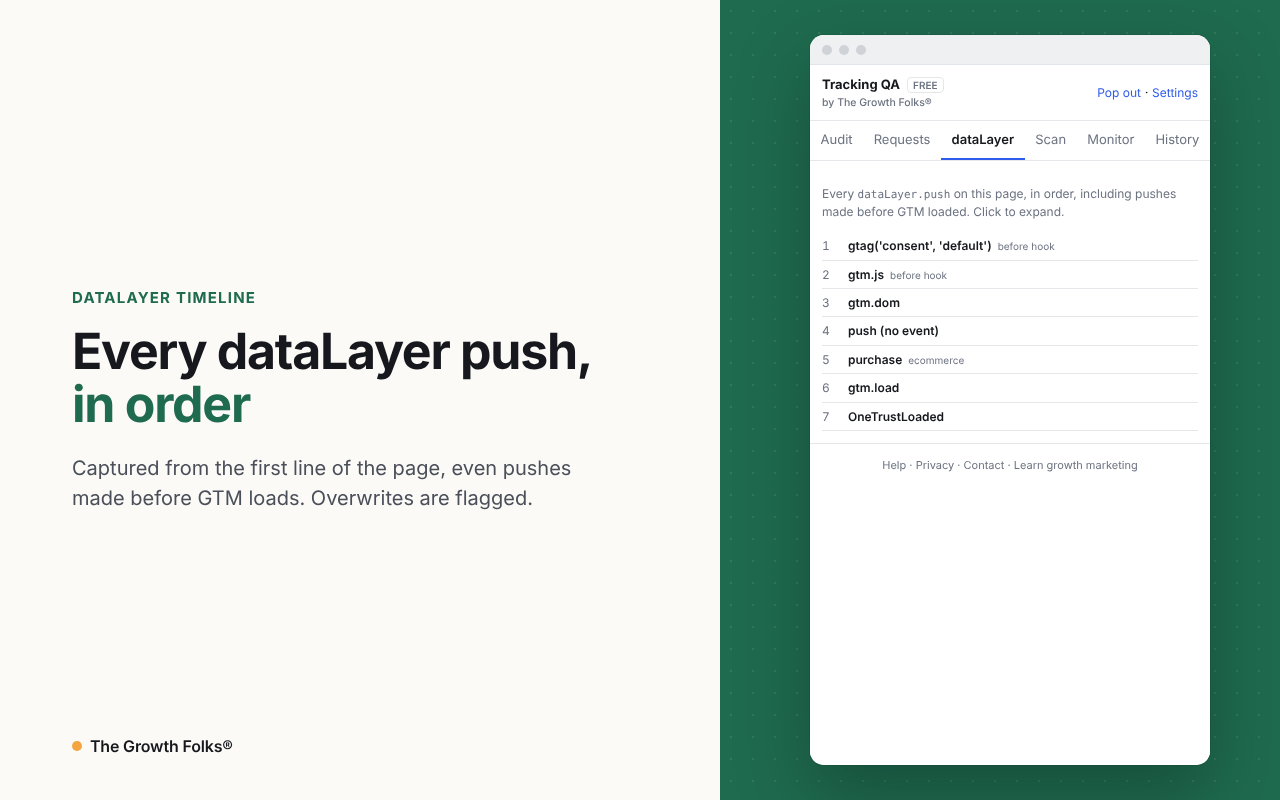
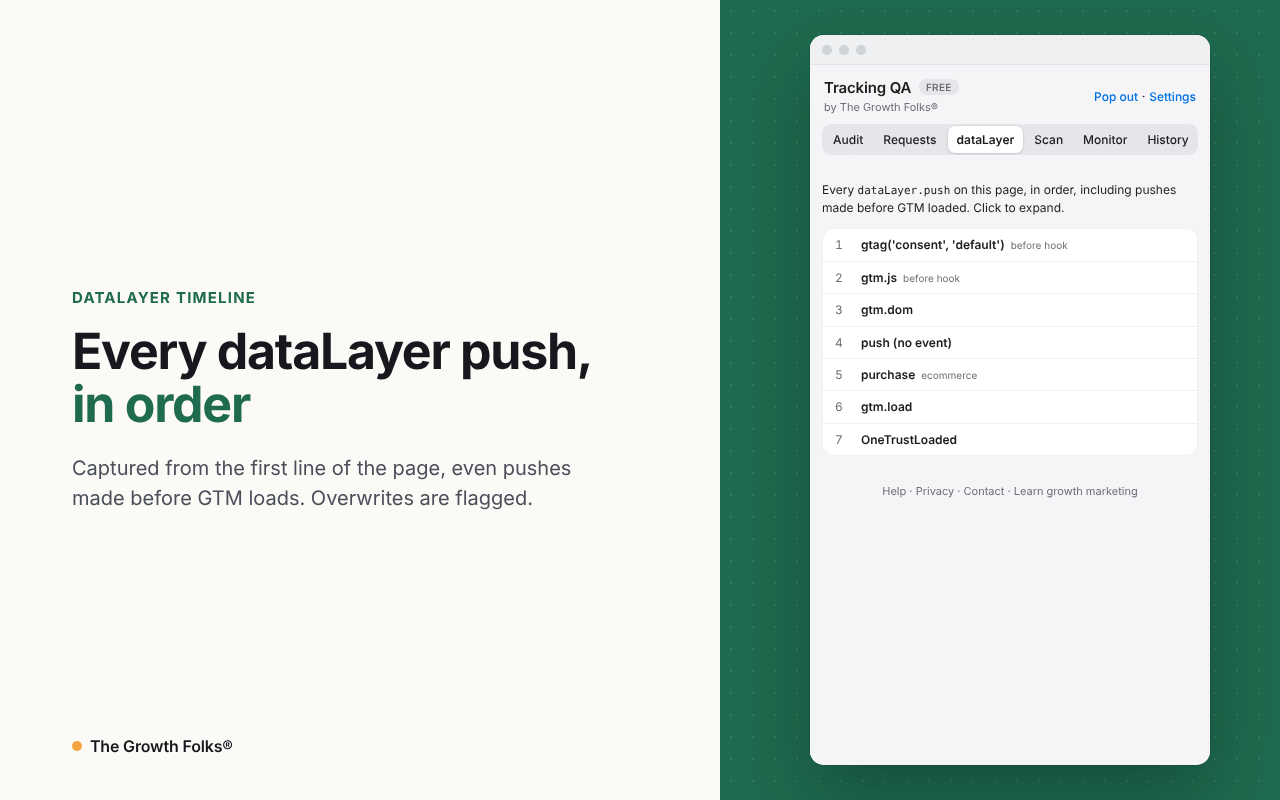
Redesign side panel and settings in an Apple-style layout
- System font stack, off-white background with white cards, soft shadows,
  12px/8px corners, segmented tab control, iOS-style switches for every
  checkbox, full light and dark themes, reduced-motion support.
- Progressive disclosure: CSV/JSON/HAR move into an Export menu, scan
  options into a collapsible section; findings, requests, dataLayer and
  history become grouped lists.
- Header and tabs stay pinned while the panel scrolls.
- All element ids, data attributes and handlers unchanged (verified by
  diff); upgrade, licence and gating browser tests still pass.
- Secondary text uses #6e6e73 so 11-12px text meets contrast on white.
- Client report left unchanged (agency branding, print layout).
- Store screenshots regenerated with the new UI.

Claude-Session: https://claude.ai/code/session_01X6xspAfbzqrYJUVTVdEMEF

Changed region(s): [[0.625, 0.0938, 0.9375, 0.625], [0.8438, 0.0938, 0.9375, 0.125]]

diff --git a/sidepanel/sidepanel.css b/sidepanel/sidepanel.css
@@ -1,94 +1,206 @@
+/* Tracking QA side panel + settings. Apple HIG-inspired: system font, layered cards, segmented tabs, switches.
+   Every class used by sidepanel.js / options.js is kept; only the look changes. */
 :root {
-  --bg: #ffffff; --fg: #16181d; --muted: #6b7280; --line: #e5e7eb; --card: #f8f9fb;
-  --accent: #2f5bea; --critical: #d92d20; --warning: #c47a00; --info: #4b5563; --pass: #138a4b;
+  --bg: #f5f5f7; --surface: #ffffff; --card: #ffffff; --fill: rgba(118, 118, 128, .12); --fill-strong: rgba(118, 118, 128, .2);
+  --fg: #1d1d1f; --muted: #6e6e73; --line: rgba(0, 0, 0, .08); --hair: rgba(0, 0, 0, .06);
+  --accent: #0071e3; --accent-fg: #ffffff;
+  --critical: #d70015; --warning: #b25000; --info: #6e6e73; --pass: #248a3d;
+  --shadow: 0 1px 2px rgba(0, 0, 0, .04), 0 4px 12px rgba(0, 0, 0, .04);
+  --seg-on: #ffffff; --seg-shadow: 0 1px 3px rgba(0, 0, 0, .12), 0 0 0 .5px rgba(0, 0, 0, .04);
+  --r-card: 12px; --r-ctl: 8px;
+  --ease: cubic-bezier(.25, 1, .5, 1);
+  --font: -apple-system, BlinkMacSystemFont, "SF Pro Text", "Inter", "Segoe UI", system-ui, sans-serif;
+  --mono: ui-monospace, "SF Mono", Menlo, Consolas, monospace;
   color-scheme: light dark;
 }
 @media (prefers-color-scheme: dark) {
-  :root { --bg: #15171c; --fg: #e8eaee; --muted: #9aa1ad; --line: #2a2e36; --card: #1d2027; --accent: #6d8cff; --critical: #ff6b5e; --warning: #f0b43c; --info: #aab1bc; --pass: #45c37f; }
+  :root {
+    --bg: #000000; --surface: #1c1c1e; --card: #1c1c1e; --fill: rgba(118, 118, 128, .24); --fill-strong: rgba(118, 118, 128, .36);
+    --fg: #f5f5f7; --muted: #98989d; --line: rgba(255, 255, 255, .1); --hair: rgba(255, 255, 255, .08);
+    --accent: #0a84ff; --critical: #ff453a; --warning: #ff9f0a; --info: #98989d; --pass: #30d158;
+    --shadow: 0 1px 2px rgba(0, 0, 0, .4); --seg-on: #636366; --seg-shadow: 0 1px 3px rgba(0, 0, 0, .3);
+  }
 }
 * { box-sizing: border-box; }
-body { margin: 0; font: 13px/1.45 system-ui, -apple-system, "Segoe UI", sans-serif; background: var(--bg); color: var(--fg); }
-.top { display: flex; justify-content: space-between; align-items: center; padding: 10px 12px; border-bottom: 1px solid var(--line); }
-.brand { font-weight: 650; }
-.badge { font-size: 10px; font-weight: 600; text-transform: uppercase; border: 1px solid var(--line); border-radius: 4px; padding: 1px 5px; margin-left: 4px; color: var(--muted); }
-.badge.pro { color: var(--accent); border-color: var(--accent); }
-.link { color: var(--accent); text-decoration: none; font-size: 12px; }
-.tabs { display: flex; border-bottom: 1px solid var(--line); }
-.tabs { overflow-x: auto; }
-.tabs button { flex: 1 0 auto; background: none; border: 0; padding: 9px 7px; font-size: 12px; white-space: nowrap; color: var(--muted); cursor: pointer; border-bottom: 2px solid transparent; font: inherit; }
-.tabs button[aria-selected="true"] { color: var(--fg); border-bottom-color: var(--accent); font-weight: 600; }
-.tab-panel { padding: 12px; }
-.page-url { font-size: 12px; color: var(--muted); word-break: break-all; margin-bottom: 8px; }
-.row { display: flex; gap: 8px; margin: 8px 0; flex-wrap: wrap; }
-button.primary, button.secondary { font: inherit; border-radius: 6px; padding: 7px 12px; cursor: pointer; }
-button.primary { background: var(--accent); color: #fff; border: 1px solid var(--accent); font-weight: 600; }
-button.secondary { background: transparent; color: var(--fg); border: 1px solid var(--line); }
-button:disabled { opacity: .55; cursor: default; }
-h3 { font-size: 12px; text-transform: uppercase; letter-spacing: .04em; color: var(--muted); margin: 18px 0 6px; }
-.muted { color: var(--muted); } .small { font-size: 12px; }
-.score-row { display: flex; align-items: center; gap: 12px; margin: 10px 0; }
-.score { font-size: 32px; font-weight: 700; min-width: 64px; }
-.counts span { display: inline-block; margin-right: 10px; font-size: 12px; }
-.c-critical { color: var(--critical); } .c-warning { color: var(--warning); } .c-info { color: var(--info); } .c-pass { color: var(--pass); }
-.card { background: var(--card); border: 1px solid var(--line); border-radius: 8px; padding: 8px 10px; margin: 8px 0; }
-.card > div { display: flex; justify-content: space-between; gap: 8px; padding: 2px 0; }
-.card .ids { color: var(--muted); font-family: ui-monospace, monospace; font-size: 11px; text-align: right; word-break: break-all; }
-.findings { list-style: none; padding: 0; margin: 8px 0; }
-.findings li { border-left: 3px solid var(--line); padding: 6px 8px; margin: 6px 0; background: var(--card); border-radius: 0 6px 6px 0; }
-.findings li.critical { border-left-color: var(--critical); } .findings li.warning { border-left-color: var(--warning); }
-.findings li.info { border-left-color: var(--info); } .findings li.pass { border-left-color: var(--pass); }
-.findings .t { font-weight: 600; } .findings .d { margin-top: 2px; } .findings .f { margin-top: 4px; color: var(--muted); }
-.hits { list-style: none; padding: 0; margin: 0; font-size: 12px; }
-.hits li { display: grid; grid-template-columns: 74px 1fr auto; gap: 6px; padding: 4px 0; border-bottom: 1px solid var(--line); }
-.hits .p { font-weight: 600; } .hits .id { font-family: ui-monospace, monospace; font-size: 11px; color: var(--muted); word-break: break-all; }
-.hits .k { color: var(--muted); font-size: 11px; }
-textarea { width: 100%; font: 12px ui-monospace, monospace; padding: 8px; border: 1px solid var(--line); border-radius: 6px; background: var(--card); color: var(--fg); }
-.progress { margin-top: 10px; } .progress .bar { height: 4px; background: var(--accent); width: 0; border-radius: 2px; transition: width .3s; margin-bottom: 4px; }
-.history { list-style: none; padding: 0; margin: 0; }
-.history li { display: flex; justify-content: space-between; align-items: center; gap: 8px; padding: 8px 0; border-bottom: 1px solid var(--line); }
-.history .meta { font-size: 11px; color: var(--muted); }
-.history button { font: inherit; font-size: 12px; background: none; border: 0; color: var(--accent); cursor: pointer; padding: 2px 4px; }
-.history button.del { color: var(--muted); }
+body { margin: 0; font: 13px/1.45 var(--font); background: var(--bg); color: var(--fg); -webkit-font-smoothing: antialiased; }
+a, button, select, input, textarea, .chip, .btn-file, summary { transition: all .2s var(--ease); }
+@media (prefers-reduced-motion: reduce) { *, *::before { transition: none !important; } }
+:focus-visible { outline: 2px solid var(--accent); outline-offset: 2px; }
 
-.row.tight { margin: 6px 0; align-items: center; }
+/* Header + segmented tabs stay pinned while the panel scrolls */
+.chrome { position: sticky; top: 0; z-index: 2; background: color-mix(in srgb, var(--bg) 88%, transparent);
+  -webkit-backdrop-filter: blur(20px) saturate(180%); backdrop-filter: blur(20px) saturate(180%); padding-bottom: 6px; }
+.top { display: flex; justify-content: space-between; align-items: center; gap: 8px; padding: 12px 14px 8px; }
+.brand { font-weight: 600; font-size: 15px; letter-spacing: -.01em; }
+.top .link { font-weight: 500; }
+.badge { font-size: 10px; font-weight: 600; text-transform: uppercase; letter-spacing: .03em; border-radius: 999px; padding: 2px 7px;
+  margin-left: 4px; color: var(--muted); background: var(--fill); vertical-align: 2px; }
+.badge.pro { color: var(--accent-fg); background: var(--accent); }
+.link { color: var(--accent); text-decoration: none; font-size: 12px; }
+.link:hover { opacity: .75; }
+
+.tabs { display: flex; gap: 2px; margin: 0 12px; padding: 2px; border-radius: 9px;
+  background: var(--fill); overflow-x: auto; scrollbar-width: none; }
+.tabs::-webkit-scrollbar { display: none; }
+.tabs button { flex: 1 0 auto; font: inherit; font-size: 12px; font-weight: 500; color: var(--fg); background: transparent; border: 0;
+  border-radius: 7px; padding: 5px 9px; white-space: nowrap; cursor: pointer; }
+.tabs button:hover:not([aria-selected="true"]) { background: var(--fill); }
+.tabs button[aria-selected="true"] { background: var(--seg-on); box-shadow: var(--seg-shadow); font-weight: 600; }
+
+.tab-panel { padding: 8px 12px 12px; animation: panel-in .2s var(--ease); }
+@keyframes panel-in { from { opacity: 0; transform: translateY(2px); } to { opacity: 1; transform: none; } }
+.page-url { font-size: 12px; color: var(--muted); word-break: break-all; margin: 2px 2px 8px; }
+
+/* Cards */
+.card, .panel-card { background: var(--card); border: 1px solid var(--hair); border-radius: var(--r-card); box-shadow: var(--shadow);
+  padding: 12px 14px; margin: 10px 0; }
+.card > div { display: flex; justify-content: space-between; gap: 8px; padding: 3px 0; }
+.card .ids { color: var(--muted); font-family: var(--mono); font-size: 11px; text-align: right; word-break: break-all; }
+h3 { font-size: 11px; font-weight: 600; text-transform: uppercase; letter-spacing: .05em; color: var(--muted); margin: 18px 2px 6px; }
+.card h3:first-child { margin-top: 0; }
+.muted { color: var(--muted); } .small { font-size: 12px; }
+
+/* Buttons */
+.row { display: flex; gap: 8px; margin: 10px 0; flex-wrap: wrap; align-items: center; }
+.row.tight { margin: 6px 0; }
 .spacer { flex: 1; }
-button.sm { padding: 4px 9px; font-size: 12px; }
-.visually-hidden { position: absolute; width: 1px; height: 1px; overflow: hidden; clip: rect(0 0 0 0); white-space: nowrap; }
-.btn-file:focus-within { outline: 2px solid var(--accent); }
-.btn-file { font: inherit; font-size: 12px; border: 1px solid var(--line); border-radius: 6px; padding: 4px 9px; cursor: pointer; }
-.st { font-size: 10px; font-weight: 600; border-radius: 4px; padding: 0 4px; }
-.st.ok { color: var(--pass); } .st.bad { color: #fff; background: var(--critical); } .st.blk { color: var(--warning); border: 1px solid var(--warning); }
-.src { display: inline-block; font-size: 10px; color: var(--accent); border: 1px solid var(--accent); border-radius: 4px; padding: 0 4px; margin-left: 4px; }
-.opts { display: flex; flex-direction: column; gap: 4px; margin: 6px 0; font-size: 12px; }
-input[type=search], select { font: inherit; padding: 6px 8px; border: 1px solid var(--line); border-radius: 6px; background: var(--card); color: var(--fg); }
-input[type=search] { width: 100%; }
-.chips { display: flex; flex-wrap: wrap; gap: 4px; margin: 4px 0 6px; }
-.chip { font: inherit; font-size: 11px; border: 1px solid var(--line); background: transparent; color: var(--fg); border-radius: 999px; padding: 2px 9px; cursor: pointer; }
-.chip[aria-pressed="true"] { background: var(--accent); border-color: var(--accent); color: #fff; }
-.hits li { cursor: pointer; }
-.hits li.nav { display: block; cursor: default; font-size: 11px; color: var(--accent); border-bottom: 1px dashed var(--accent); padding: 6px 0 3px; word-break: break-all; }
-.hits li.open { background: var(--card); }
-.params { grid-column: 1 / -1; width: 100%; border-collapse: collapse; font-size: 11px; margin: 4px 0; }
-.params td { padding: 2px 4px; border-top: 1px solid var(--line); vertical-align: top; word-break: break-all; }
+button.primary, button.secondary { font: inherit; font-weight: 500; border-radius: var(--r-ctl); padding: 7px 14px; cursor: pointer; border: 0; }
+button.primary { background: var(--accent); color: var(--accent-fg); }
+button.primary:hover:not(:disabled) { filter: brightness(1.08); }
+button.secondary, .btn-file { background: var(--fill); color: var(--fg); }
+button.secondary:hover:not(:disabled), .btn-file:hover { background: var(--fill-strong); }
+button:active:not(:disabled), .btn-file:active, .chip:active { transform: scale(.98); }
+button:disabled { opacity: .45; cursor: default; }
+button.sm { padding: 4px 10px; font-size: 12px; }
+#run-audit { flex: 1; padding: 9px 14px; }
+
+/* Form controls */
+input[type=search], input[type=text], select, textarea { font: inherit; color: var(--fg); background: var(--surface);
+  border: 1px solid var(--line); border-radius: var(--r-ctl); padding: 6px 9px; }
+input[type=search]:focus, input[type=text]:focus, select:focus, textarea:focus { outline: none; border-color: var(--accent);
+  box-shadow: 0 0 0 3px color-mix(in srgb, var(--accent) 25%, transparent); }
+input[type=search] { width: 100%; background: var(--fill); border-color: transparent; }
+textarea { width: 100%; font: 12px/1.5 var(--mono); padding: 8px 10px; resize: vertical; }
+select { padding-right: 6px; }
+
+/* iOS-style switch: any checkbox in the panel and settings (same element, so ids and change events are untouched) */
+input[type=checkbox] { -webkit-appearance: none; appearance: none; position: relative; flex: none; width: 32px; height: 19px; margin: 0 6px 0 0;
+  vertical-align: -5px; border-radius: 999px; background: var(--fill-strong); cursor: pointer; transition: background .2s var(--ease); }
+input[type=checkbox]::before { content: ""; position: absolute; top: 2px; left: 2px; width: 15px; height: 15px; border-radius: 50%;
+  background: #fff; box-shadow: 0 1px 2px rgba(0, 0, 0, .25); transition: transform .2s var(--ease); }
+input[type=checkbox]:checked { background: #34c759; }
+input[type=checkbox]:checked::before { transform: translateX(13px); }
+
+/* Options under the main action */
+.opts { display: flex; flex-direction: column; gap: 8px; margin: 8px 0; font-size: 12px; }
+.opts label { display: flex; align-items: center; gap: 6px; flex-wrap: wrap; }
+
+/* Progressive disclosure */
+details.disclosure { margin: 8px 0; border-radius: var(--r-card); background: var(--card); border: 1px solid var(--hair); }
+details.disclosure > summary { list-style: none; cursor: pointer; padding: 9px 12px; font-size: 12px; font-weight: 500; color: var(--fg);
+  display: flex; align-items: center; gap: 6px; border-radius: var(--r-card); }
+details.disclosure > summary::-webkit-details-marker { display: none; }
+details.disclosure > summary::before { content: ""; width: 6px; height: 6px; border-right: 1.5px solid var(--muted);
+  border-bottom: 1.5px solid var(--muted); transform: rotate(-45deg); transition: transform .2s var(--ease); margin-right: 2px; }
+details.disclosure[open] > summary::before { transform: rotate(45deg); }
+details.disclosure > summary:hover { background: var(--fill); }
+details.disclosure > .opts { margin: 0; padding: 2px 12px 12px; }
+details.menu { position: relative; }
+details.menu > summary { list-style: none; cursor: pointer; font-size: 12px; font-weight: 500; border-radius: var(--r-ctl); padding: 4px 10px;
+  background: var(--fill); }
+details.menu > summary::-webkit-details-marker { display: none; }
+details.menu > summary:hover { background: var(--fill-strong); }
+details.menu[open] > summary { background: var(--fill-strong); }
+details.menu .menu-items { position: absolute; right: 0; top: calc(100% + 4px); z-index: 3; min-width: 130px; display: flex; flex-direction: column;
+  padding: 4px; border-radius: 10px; background: var(--surface); border: 1px solid var(--line); box-shadow: 0 8px 24px rgba(0, 0, 0, .14); }
+details.menu .menu-items button { text-align: left; background: transparent; border-radius: 6px; padding: 6px 10px; }
+details.menu .menu-items button:hover { background: var(--accent); color: var(--accent-fg); }
+
+/* Score */
+.score-row { display: flex; align-items: center; gap: 14px; margin: 10px 0; padding: 14px 16px; background: var(--card);
+  border: 1px solid var(--hair); border-radius: var(--r-card); box-shadow: var(--shadow); }
+.score { font-size: 34px; font-weight: 600; letter-spacing: -.02em; min-width: 72px; font-variant-numeric: tabular-nums; }
+.score .of { font-size: 13px; color: var(--muted); font-weight: 500; }
+.counts { display: flex; flex-wrap: wrap; gap: 4px 12px; }
+.counts span { font-size: 12px; font-weight: 500; }
+.c-critical { color: var(--critical); } .c-warning { color: var(--warning); } .c-info { color: var(--info); } .c-pass { color: var(--pass); }
+
+/* Findings: one grouped list, severity as a coloured dot */
+.findings { list-style: none; padding: 0; margin: 10px 0; background: var(--card); border: 1px solid var(--hair); border-radius: var(--r-card);
+  box-shadow: var(--shadow); overflow: hidden; }
+.findings:empty { display: none; }
+.findings li { position: relative; padding: 10px 14px 10px 28px; border-top: 1px solid var(--hair); }
+.findings li:first-child { border-top: 0; }
+.findings li::before { content: ""; position: absolute; left: 12px; top: 15px; width: 8px; height: 8px; border-radius: 50%; background: var(--info); }
+.findings li.critical::before { background: var(--critical); } .findings li.warning::before { background: var(--warning); }
+.findings li.pass::before { background: var(--pass); }
+.findings .t { font-weight: 600; } .findings .d { margin-top: 2px; } .findings .f { margin-top: 4px; color: var(--muted); }
+
+/* Requests */
+.hits { list-style: none; padding: 0; margin: 6px 0 0; font-size: 12px; background: var(--card); border: 1px solid var(--hair);
+  border-radius: var(--r-card); overflow: hidden; }
+.hits:empty { display: none; }
+.hits li { display: grid; grid-template-columns: 78px 1fr auto; gap: 6px; padding: 7px 12px; border-top: 1px solid var(--hair); cursor: pointer; }
+.hits li:first-child { border-top: 0; }
+.hits li:hover { background: var(--fill); }
+.hits li.open { background: var(--fill); }
+.hits .p { font-weight: 600; } .hits .id { font-family: var(--mono); font-size: 11px; color: var(--muted); word-break: break-all; }
+.hits .k { color: var(--muted); font-size: 11px; }
+.hits li.nav { display: block; cursor: default; font-size: 11px; font-weight: 500; color: var(--accent); background: var(--fill); padding: 6px 12px;
+  word-break: break-all; }
+.params { grid-column: 1 / -1; width: 100%; border-collapse: collapse; font-size: 11px; margin: 6px 0 2px; }
+.params td { padding: 3px 4px; border-top: 1px solid var(--hair); vertical-align: top; word-break: break-all; }
 .params td:first-child { color: var(--muted); width: 42%; }
-.params code { font-family: ui-monospace, monospace; font-size: 10px; color: var(--muted); display: block; }
-.dl { list-style: none; padding: 0; margin: 0; font-size: 12px; }
-.dl li { border-bottom: 1px solid var(--line); padding: 5px 0; cursor: pointer; }
+.params code { font-family: var(--mono); font-size: 10px; color: var(--muted); display: block; }
+.chips { display: flex; flex-wrap: wrap; gap: 6px; margin: 8px 0; }
+.chip { font: inherit; font-size: 11px; font-weight: 500; border: 0; background: var(--fill); color: var(--fg); border-radius: 999px;
+  padding: 3px 10px; cursor: pointer; }
+.chip:hover { background: var(--fill-strong); }
+.chip[aria-pressed="true"] { background: var(--accent); color: var(--accent-fg); }
+.st { font-size: 10px; font-weight: 600; border-radius: 999px; padding: 1px 6px; }
+.st.ok { color: var(--pass); } .st.bad { color: #fff; background: var(--critical); }
+.st.blk { color: var(--warning); background: color-mix(in srgb, var(--warning) 14%, transparent); }
+.src { display: inline-block; font-size: 10px; font-weight: 600; color: var(--accent); background: color-mix(in srgb, var(--accent) 12%, transparent);
+  border-radius: 999px; padding: 0 6px; margin-left: 4px; }
+
+/* dataLayer */
+.dl { list-style: none; padding: 0; margin: 6px 0 0; font-size: 12px; background: var(--card); border: 1px solid var(--hair);
+  border-radius: var(--r-card); overflow: hidden; }
+.dl:empty { display: none; }
+.dl li { border-top: 1px solid var(--hair); padding: 7px 12px; cursor: pointer; }
+.dl li:first-child { border-top: 0; }
+.dl li:hover { background: var(--fill); }
 .dl .n { display: inline-block; min-width: 26px; color: var(--muted); font-variant-numeric: tabular-nums; }
 .dl .ev { font-weight: 600; }
 .dl .tag { font-size: 10px; color: var(--muted); margin-left: 6px; }
-.dl pre { margin: 6px 0 0; font: 11px/1.4 ui-monospace, monospace; white-space: pre-wrap; word-break: break-all; background: var(--card); padding: 6px; border-radius: 4px; cursor: text; }
-.dl li.nav-sep { font-size: 11px; color: var(--accent); border-bottom: 1px dashed var(--accent); cursor: default; word-break: break-all; }
-.score .of { font-size: 13px; color: var(--muted); font-weight: 500; }
+.dl pre { margin: 6px 0 0; font: 11px/1.45 var(--mono); white-space: pre-wrap; word-break: break-all; background: var(--fill); padding: 8px;
+  border-radius: var(--r-ctl); cursor: text; }
+.dl li.nav-sep { font-size: 11px; font-weight: 500; color: var(--accent); background: var(--fill); cursor: default; word-break: break-all; }
 .dl li.bad { color: var(--critical); font-weight: 600; cursor: default; }
+
+/* Scan / monitor / history */
+.progress { margin-top: 10px; } .progress .bar { height: 4px; background: var(--accent); width: 0; border-radius: 2px; transition: width .3s var(--ease); margin-bottom: 6px; }
+.history { list-style: none; padding: 0; margin: 8px 0; background: var(--card); border: 1px solid var(--hair); border-radius: var(--r-card); overflow: hidden; }
+.history:empty { display: none; }
+.history li { display: flex; justify-content: space-between; align-items: center; gap: 8px; padding: 10px 12px; border-top: 1px solid var(--hair); }
+.history li:first-child { border-top: 0; }
+.history .meta { font-size: 11px; color: var(--muted); }
+.history button { font: inherit; font-size: 12px; font-weight: 500; background: none; border: 0; color: var(--accent); cursor: pointer; padding: 3px 6px; border-radius: 6px; }
+.history button:hover { background: var(--fill); }
+.history button.del { color: var(--muted); }
 .ct-table { width: 100%; border-collapse: collapse; font-size: 12px; }
-.ct-table td, .ct-table th { text-align: left; padding: 2px 4px; }
+.ct-table td, .ct-table th { text-align: left; padding: 3px 4px; }
 .ct-table th { color: var(--muted); font-weight: 500; font-size: 11px; }
-code { font-family: ui-monospace, monospace; font-size: 11px; }
+code { font-family: var(--mono); font-size: 11px; }
+label.small, p.small { color: var(--fg); }
+.visually-hidden { position: absolute; width: 1px; height: 1px; overflow: hidden; clip: rect(0 0 0 0); white-space: nowrap; }
+.btn-file { font: inherit; font-size: 12px; font-weight: 500; border-radius: var(--r-ctl); padding: 4px 10px; cursor: pointer; }
+.btn-file:focus-within { outline: 2px solid var(--accent); outline-offset: 2px; }
+.upgrade { font-weight: 500; color: var(--accent); }
 
 /* The Growth Folks® mark + footer links */
-.tgf-mark { display: block; font-size: 10.5px; font-weight: 500; color: var(--muted); text-decoration: none; margin-top: 1px; }
+.tgf-mark { display: block; font-size: 11px; font-weight: 400; color: var(--muted); text-decoration: none; margin-top: 1px; letter-spacing: 0; }
 .tgf-mark:hover { color: var(--accent); }
-.tgf-foot { padding: 14px 12px 16px; border-top: 1px solid var(--line); font-size: 11px; color: var(--muted); text-align: center; }
+.tgf-foot { padding: 16px 12px 18px; font-size: 11px; color: var(--muted); text-align: center; }
 .tgf-foot a { color: var(--muted); text-decoration: none; }
-.tgf-foot a:hover { color: var(--accent); text-decoration: underline; }
+.tgf-foot a:hover { color: var(--accent); }

diff --git a/sidepanel/sidepanel.html b/sidepanel/sidepanel.html
@@ -7,6 +7,7 @@
   <link rel="stylesheet" href="sidepanel.css">
 </head>
 <body>
+  <div class="chrome">
   <header class="top">
     <div class="brand">Tracking QA <span id="plan-badge" class="badge"></span><a class="tgf-mark" data-tgf="landing" data-tgf-content="panel-header" title="Tracking QA &amp; Client Audit by The Growth Folks®">by The Growth Folks®</a></div>
     <span><a href="#" id="pop-out" class="link" title="Open in a separate window pinned to this tab">Pop out</a> · <a href="#" id="open-options" class="link">Settings</a></span>
@@ -20,6 +21,7 @@
     <button role="tab" data-tab="monitor" aria-selected="false">Monitor</button>
     <button role="tab" data-tab="history" aria-selected="false">History</button>
   </nav>
+  </div>
 
   <!-- Audit -->
   <section id="tab-live" class="tab-panel">
@@ -59,9 +61,14 @@
     <div class="row tight">
       <label class="small"><input type="checkbox" id="preserve-log"> Preserve log across pages</label>
       <span class="spacer"></span>
-      <button class="secondary sm" id="export-csv">CSV</button>
-      <button class="secondary sm" id="export-json">JSON</button>
-      <button class="secondary sm" id="export-har" title="HTTP Archive for developers (Chrome DevTools, Charles, etc.)">HAR</button>
+      <details class="menu">
+        <summary>Export</summary>
+        <div class="menu-items">
+          <button class="secondary sm" id="export-csv">CSV</button>
+          <button class="secondary sm" id="export-json">JSON</button>
+          <button class="secondary sm" id="export-har" title="HTTP Archive for developers (Chrome DevTools, Charles, etc.)">HAR</button>
+        </div>
+      </details>
       <button class="secondary sm" id="clear-log">Clear</button>
     </div>
     <p class="muted small" id="hit-count"></p>
@@ -79,10 +86,13 @@
     <p class="small">Opens each URL in a background tab, waits for tags to settle, then audits it. Pages are checked as a <strong>first-time visitor who hasn't consented yet</strong>.</p>
     <label for="scan-urls" class="small">URLs (one per line)</label>
     <textarea id="scan-urls" rows="7" placeholder="https://example.com/&#10;https://example.com/checkout"></textarea>
-    <div class="opts">
-      <label>Consent test on every page: <select id="scan-consent"><option value="">Off</option><option value="accept">Accept all</option><option value="reject">Reject all</option><option value="gpc">GPC signal (US opt-out)</option></select></label>
-      <label title="Clears cookies and storage for the scanned sites first. You will be logged out of them."><input type="checkbox" id="scan-fresh"> Fresh visitor (clears that site's cookies)</label>
-    </div>
+    <details class="disclosure">
+      <summary>Scan options</summary>
+      <div class="opts">
+        <label>Consent test on every page: <select id="scan-consent"><option value="">Off</option><option value="accept">Accept all</option><option value="reject">Reject all</option><option value="gpc">GPC signal (US opt-out)</option></select></label>
+        <label title="Clears cookies and storage for the scanned sites first. You will be logged out of them."><input type="checkbox" id="scan-fresh"> Fresh visitor (clears that site's cookies)</label>
+      </div>
+    </details>
     <div class="row">
       <button id="use-links" class="secondary">Use links from this page</button>
       <button id="start-scan" class="primary">Start scan</button>

diff --git a/options/options.html b/options/options.html
@@ -6,15 +6,23 @@
   <title>Tracking QA Settings</title>
   <link rel="stylesheet" href="../sidepanel/sidepanel.css">
   <style>
-    body { max-width: 560px; margin: 0 auto; padding: 24px 16px; }
-    label { display: block; font-weight: 600; margin: 14px 0 4px; }
-    input[type=text] { width: 100%; font: inherit; padding: 7px 8px; border: 1px solid var(--line); border-radius: 6px; background: var(--card); color: var(--fg); }
-    .hint { font-size: 12px; color: var(--muted); margin-top: 2px; }
-    #logo-preview { max-height: 48px; display: block; margin-top: 8px; }
-    textarea { width: 100%; font: 12px ui-monospace, monospace; padding: 8px; border: 1px solid var(--line); border-radius: 6px; background: var(--card); color: var(--fg); margin-top: 6px; }
-    fieldset { border: 1px solid var(--line); border-radius: 8px; padding: 4px 14px 14px; margin: 18px 0; }
-    legend { font-weight: 650; padding: 0 6px; }
-    .locked { opacity: .55; pointer-events: none; }
+    body { max-width: 600px; margin: 0 auto; padding: 28px 16px 40px; }
+    h1 { font-size: 22px; font-weight: 600; letter-spacing: -.02em; margin: 0 2px 2px; }
+    body > .tgf-mark { margin: 0 2px 18px; }
+    label { display: block; font-weight: 500; margin: 14px 0 6px; }
+    input[type=text] { width: 100%; }
+    .hint { font-size: 12px; color: var(--muted); margin-top: 4px; }
+    #logo-preview { max-height: 48px; display: block; margin-top: 8px; border-radius: 6px; }
+    textarea { margin-top: 6px; }
+    fieldset { background: var(--card); border: 1px solid var(--hair); border-radius: var(--r-card); box-shadow: var(--shadow);
+      padding: 6px 16px 16px; margin: 0 0 14px; min-width: 0; }
+    legend { float: left; width: 100%; font-size: 13px; font-weight: 600; padding: 10px 0 2px; margin: 0; }
+    legend + * { clear: both; }
+    fieldset > p:first-of-type { clear: both; }
+    label:has(> input[type=checkbox]) { display: flex; align-items: center; gap: 2px; font-weight: 400; }
+    input[type=color] { width: 44px; height: 30px; padding: 2px; border: 1px solid var(--line); border-radius: var(--r-ctl); background: var(--surface); cursor: pointer; }
+    input[type=file] { font: inherit; font-size: 12px; }
+    .locked { opacity: .5; pointer-events: none; }
   </style>
 </head>
 <body>
@@ -24,7 +32,7 @@
   <fieldset>
     <legend>Plan</legend>
     <p>Current plan: <strong id="plan-name">—</strong></p>
-    <p class="hint">Pro (coming soon, not yet available to buy): white-label reports (your logo, colours, no watermark), 50-page scans, scheduled monitoring with alerts, 500 saved audits.</p>
+    <p class="hint">Pro (coming soon, not yet available to buy): white-label reports (your logo, colours, CTA, credit line optional), "changes since last audit", 50-page scans, scheduled monitoring with alerts, 500 saved audits.</p>
     <div id="license-box" hidden>
       <label for="license-key">Licence key</label>
       <div class="row tight">

diff --git a/sidepanel/sidepanel.js b/sidepanel/sidepanel.js
@@ -43,6 +43,13 @@ async function currentTab() {
 
 wireTgfLinks(document, 'panel-footer');
 
+// Export menu: close after picking a format or clicking outside it.
+document.addEventListener('click', e => {
+  for (const menu of document.querySelectorAll('details.menu[open]')) {
+    if (!menu.contains(e.target) || e.target.closest('.menu-items button')) menu.open = false;
+  }
+});
+
 // ---- Tabs -----------------------------------------------------------------------------
 document.querySelectorAll('.tabs button').forEach(btn => {
   btn.addEventListener('click', () => {
